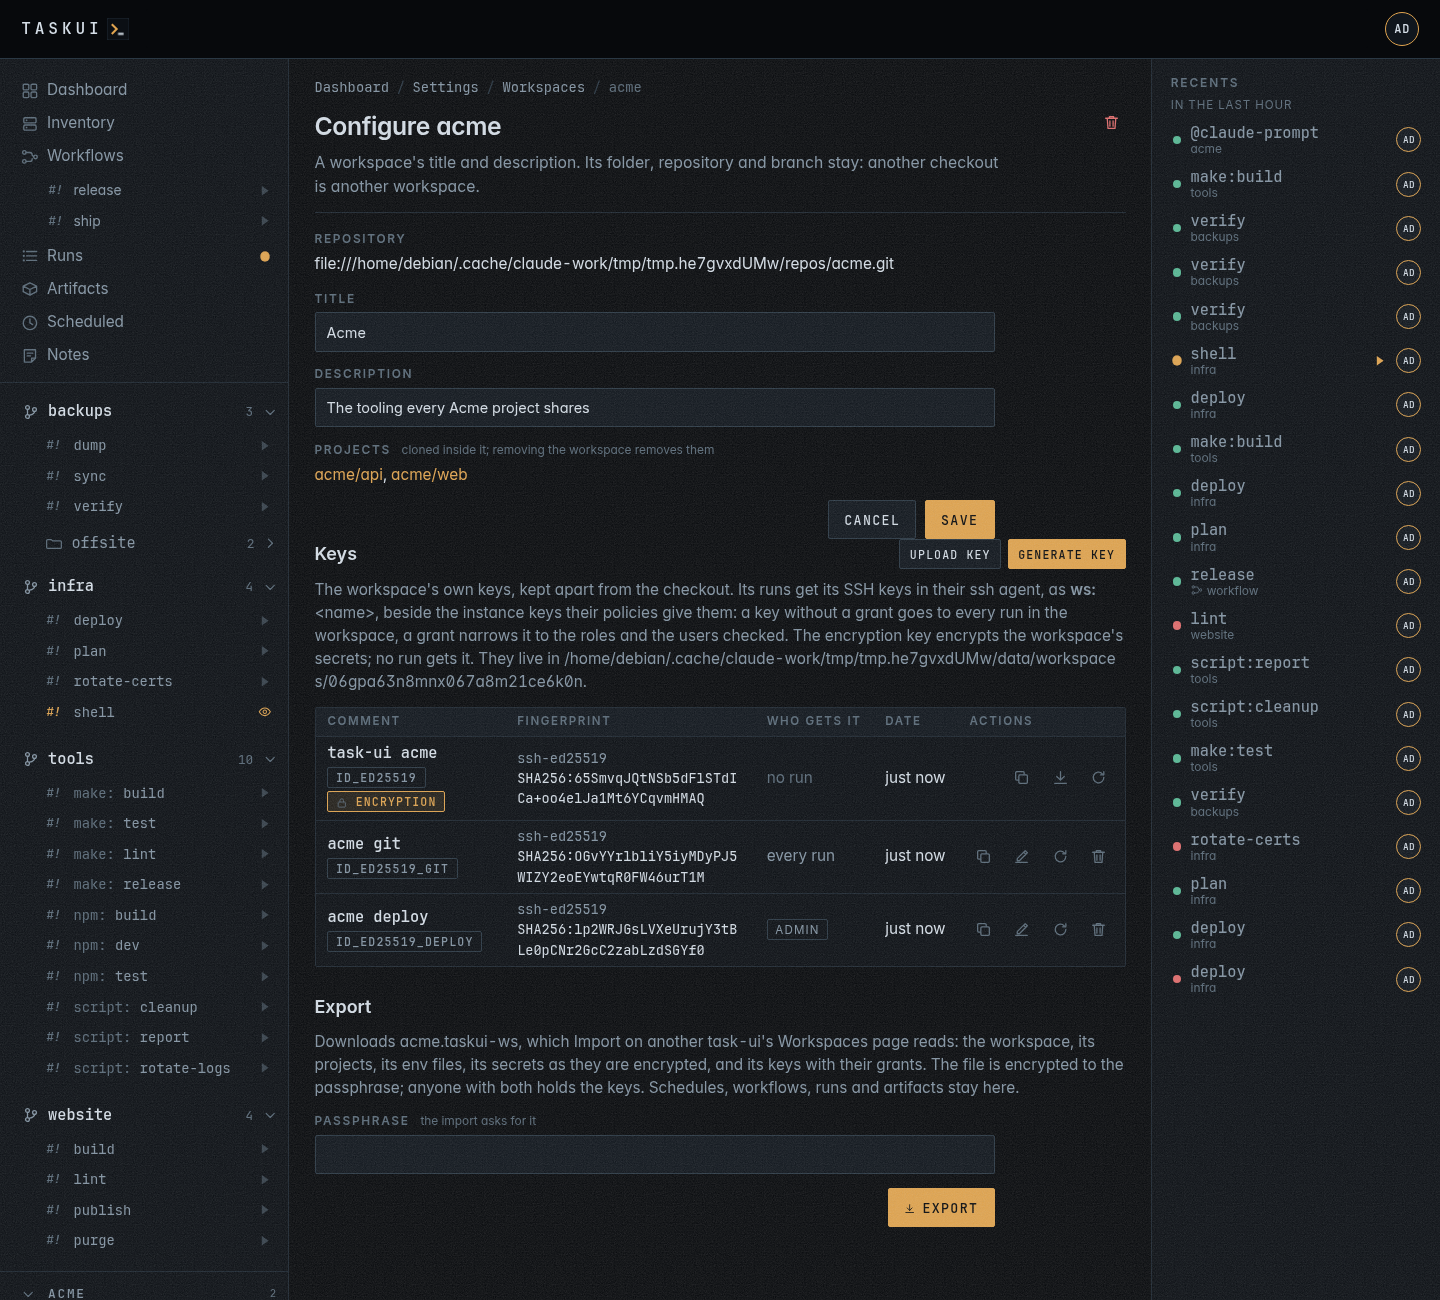
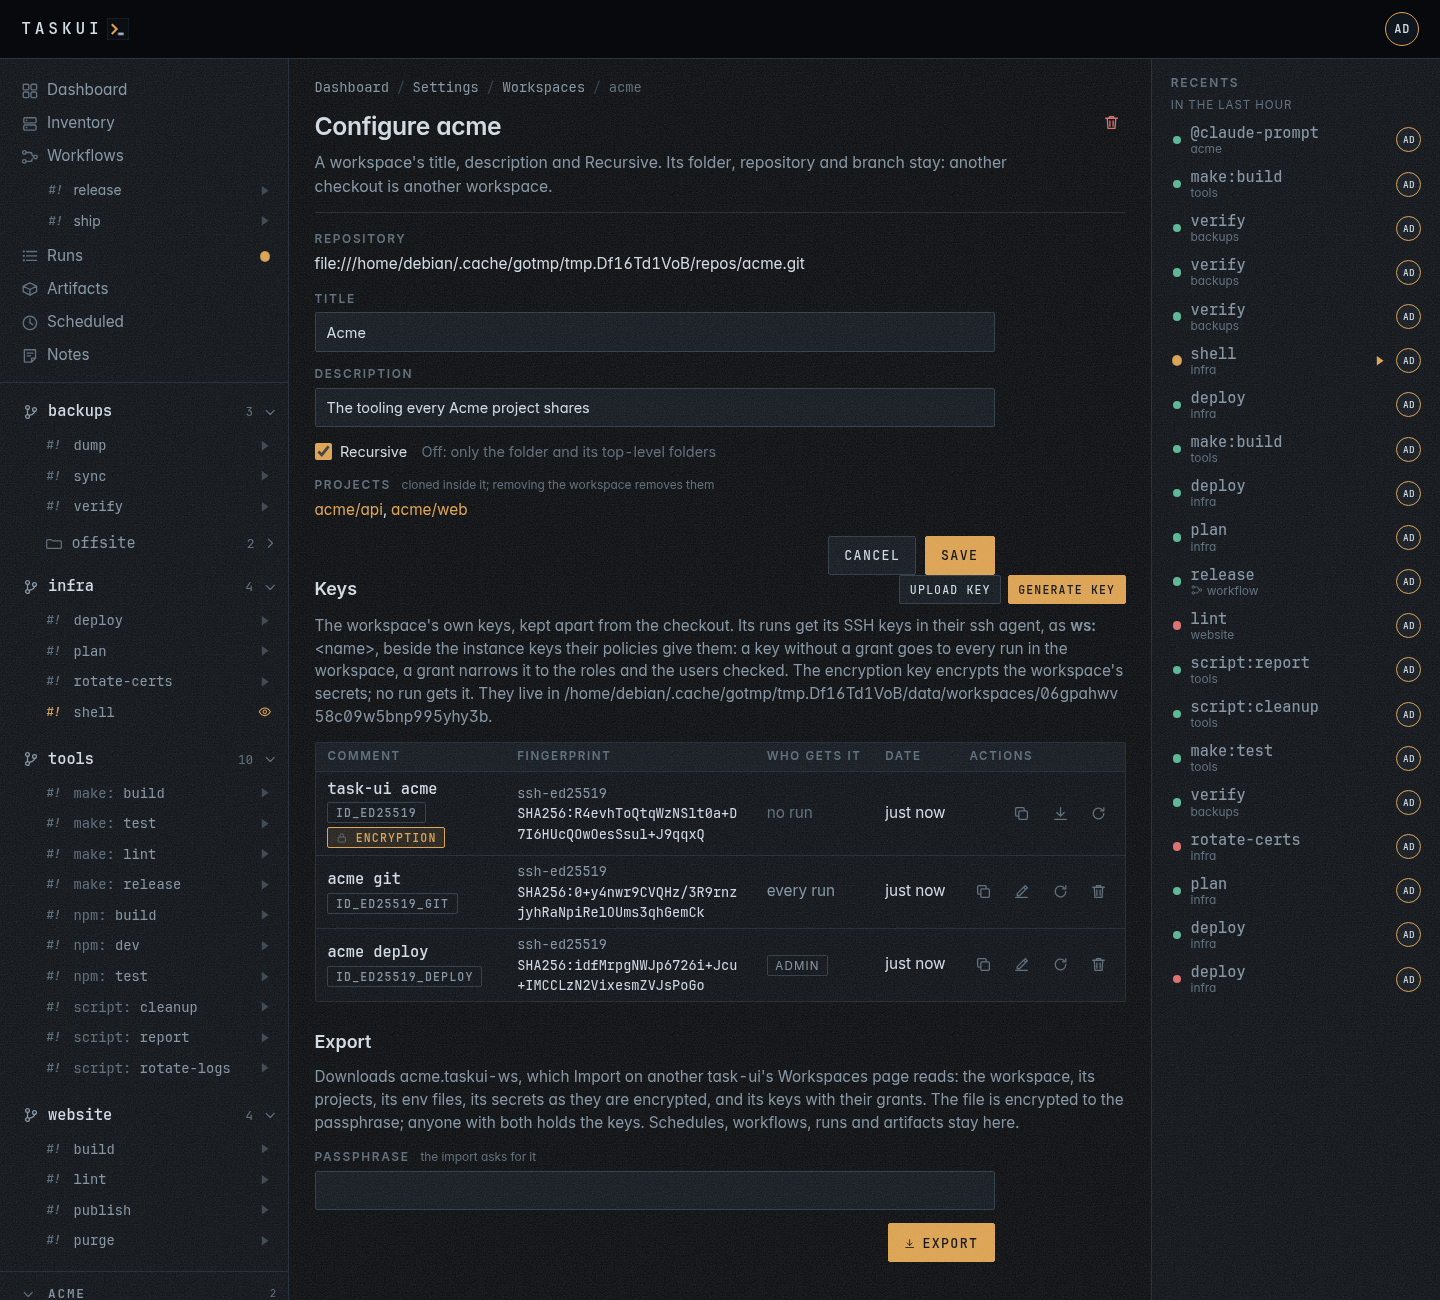
Workspaces: Recursive as projects have it; ignored checkouts with jobs list
Workspace rows gain shallow (migration workspace_shallow), so the zero
value stays recursive. The workspace add and configure forms carry the
Recursive toggle the project forms have, one partial for all four, and
POST/PUT /api/workspaces take recursive; the export bundle and the
import carry it. docs/api.md records the field.

Discovery treats the root, the workspaces and the configured folders
as roots: a directory right below one that its checkout ignores lists
when it holds a job source of its own, such as malta/deploy, and the
folders inside it follow the Recursive above it. An ignored directory
with nothing to run, or one deeper down, stays out; a project row on
the directory wins. A shallow parent still walks into the roots below
it.

TestWorkflowRunStorage gives its second run a later ID: two starts in
one millisecond sorted by the random part.

diff --git a/folder/discovery.go b/folder/discovery.go
@@ -25,10 +25,17 @@ var skipped = map[string]bool{"node_modules": true, "vendor": true, "testdata": 
 // a pipeline file of their own: a Go tree's Makefiles are the pipeline's
 // business. Configured folders override the discovered ones by ID, and
 // Discovery adds a configured folder whose path the walk did not find.
+//
+// The root, the workspaces and the configured folders are roots: a
+// directory right below one that its checkout ignores, such as another
+// checkout, lists when it holds a job source of its own.
 type Discovery struct {
 	Root     string
 	Discover bool
 	Config   []Config
+	// Workspaces are the workspaces' directories, by Path or ID under the
+	// root, and their Shallow; the root is one whether they name it or not.
+	Workspaces []Config
 	// Probe is every folder's Probe, for the skills atkins applies in it.
 	Probe *skills.Prober
 }
@@ -123,24 +130,31 @@ func isFile(path string) bool {
 }
 
 // discover adds the root when it has something to run, and walks the
-// tree below it, one level into a shallow project. A directory of the root
-// named internal or _ lists nothing: the names are task-ui's own. The walk
-// goes into every configured folder, even one a checkout ignores, such
-// as a project cloned inside a workspace.
+// tree below it, one level into a shallow project or workspace. A
+// directory of the root named internal or _ lists nothing: the names are
+// task-ui's own. The walk goes into every configured folder, even one a
+// checkout ignores, such as a project cloned inside a workspace, and into
+// an ignored directory right below a root that holds a job source.
 func (d *Discovery) discover(root string, c *catalogue) {
 	if !c.seen(root) && detector.Any(root) {
 		if f := Load(SafeID(filepath.Base(root)), root); runnable(f) {
 			c.add(f)
 		}
 	}
-	shallow, keep := map[string]bool{}, map[string]bool{}
-	for _, cfg := range d.Config {
-		keep[cfg.dir(root)] = true
+	shallow, keep, roots := map[string]bool{}, map[string]bool{}, map[string]bool{root: true}
+	for _, cfg := range d.Workspaces {
+		roots[cfg.dir(root)] = true
 		if cfg.Shallow {
 			shallow[cfg.dir(root)] = true
 		}
 	}
-	w := walker{shallow: shallow, keep: keep, found: func(id, dir string) {
+	for _, cfg := range d.Config {
+		keep[cfg.dir(root)], roots[cfg.dir(root)] = true, true
+		if cfg.Shallow {
+			shallow[cfg.dir(root)] = true
+		}
+	}
+	w := walker{shallow: shallow, keep: keep, roots: roots, found: func(id, dir string) {
 		if c.seen(dir) || model.IsReserved(id) {
 			return
 		}
@@ -148,7 +162,7 @@ func (d *Discovery) discover(root string, c *catalogue) {
 			c.add(f)
 		}
 	}}
-	w.walk(root, "", 1, detector.HasPipeline(root), gitIgnored(root, nil), false)
+	w.walk(root, "", 1, detector.HasPipeline(root), gitIgnored(root, nil), shallow[root])
 }
 
 // sections adds the top level folder of every listed folder below one
@@ -206,17 +220,19 @@ func gitIgnored(dir string, ignored map[string]bool) map[string]bool {
 
 // walker visits the directories below the root and reports the ones
 // with something to run to found. Directories a git checkout ignores are
-// not visited unless keep holds them, and the walk goes one level into
-// a directory in shallow, a shallow project, and no deeper.
+// not visited unless keep holds them or they sit right below a directory
+// of roots with a job source of their own, and the walk goes one level
+// into a directory in shallow, a shallow project or workspace, and no
+// deeper, but for the roots below it.
 type walker struct {
-	shallow, keep map[string]bool
-	found         func(id, dir string)
+	shallow, keep, roots map[string]bool
+	found                func(id, dir string)
 }
 
 // walk visits the directories below dir, in name order. Below a pipeline
 // folder walk reports only a folder with a pipeline file, but goes on
-// through the rest. last stops it under the directories of dir: dir is a
-// shallow project.
+// through the rest. last stops it under the directories of dir that are
+// not roots: dir is a shallow project or workspace.
 func (w walker) walk(dir, id string, depth int, underPipeline bool, ignored map[string]bool, last bool) {
 	if depth > maxDepth {
 		return
@@ -228,7 +244,7 @@ func (w walker) walk(dir, id string, depth int, underPipeline bool, ignored map[
 			continue
 		}
 		sub := filepath.Join(dir, name)
-		if ignored[sub] && !w.keep[sub] {
+		if ignored[sub] && !w.keep[sub] && !(w.roots[dir] && detector.Any(sub)) {
 			continue
 		}
 		ignored := gitIgnored(sub, ignored)
@@ -240,7 +256,7 @@ func (w walker) walk(dir, id string, depth int, underPipeline bool, ignored map[
 		if pipeline || (!underPipeline && detector.Any(sub)) {
 			w.found(subID, sub)
 		}
-		if last {
+		if last && !w.roots[sub] {
 			continue
 		}
 		w.walk(sub, subID, depth+1, underPipeline || pipeline, ignored, w.shallow[sub])

diff --git a/folder/discovery_test.go b/folder/discovery_test.go
@@ -6,6 +6,8 @@ import (
 	"path/filepath"
 	"slices"
 	"testing"
+
+	"github.com/titpetric/task-ui/model"
 )
 
 func TestDiscovery(t *testing.T) {
@@ -273,5 +275,60 @@ func TestDiscovery_Workspace(t *testing.T) {
 	// Unconfigured, the ignored project stays out.
 	if got, want := list(&Discovery{Root: root, Discover: true}), []string{"ws"}; !slices.Equal(got, want) {
 		t.Fatalf("folders: got %v, want %v", got, want)
+	}
+}
+
+// A directory a workspace's checkout ignores, right below it, lists
+// when it holds a job source of its own, such as another
+// checkout; the folders inside it follow the workspace's Recursive. One
+// with no job source stays out, as does an ignored directory deeper
+// down. A project row on the directory wins over the discovered one.
+func TestDiscovery_IgnoredCheckouts(t *testing.T) {
+	t.Parallel()
+	root := t.TempDir()
+	ws := filepath.Join(root, "ws")
+	gitInit(t, ws)
+	write(t, filepath.Join(ws, ".gitignore"), "/deploy\n/empty\n/lib/cache\n")
+	write(t, filepath.Join(ws, "atkins.yml"), "jobs:\n  setup: echo setup\n")
+	deploy := filepath.Join(ws, "deploy")
+	gitInit(t, deploy)
+	write(t, filepath.Join(deploy, "Taskfile.yml"), "tasks:\n  up:\n    desc: Up\n")
+	write(t, filepath.Join(deploy, "web", "atkins.yml"), "jobs:\n  ship: echo ship\n")
+	write(t, filepath.Join(ws, "empty", "inner", "atkins.yml"), "jobs:\n  x: echo x\n")
+	write(t, filepath.Join(ws, "lib", "cache", "atkins.yml"), "jobs:\n  y: echo y\n")
+
+	list := func(d *Discovery) []string {
+		ids := []string{}
+		for _, f := range d.List() {
+			ids = append(ids, f.ID)
+		}
+		return ids
+	}
+	d := &Discovery{Root: root, Discover: true, Workspaces: []Config{{ID: "ws"}}}
+	if got, want := list(d), []string{"ws", "ws/deploy", "ws/deploy/web"}; !slices.Equal(got, want) {
+		t.Fatalf("folders: got %v, want %v", got, want)
+	}
+	if f := d.Find("ws/deploy"); f == nil || f.Job("up") == nil {
+		t.Fatalf("ws/deploy: %+v", f)
+	}
+
+	shallow := &Discovery{Root: root, Discover: true, Workspaces: []Config{{ID: "ws", Shallow: true}}}
+	if got, want := list(shallow), []string{"ws", "ws/deploy"}; !slices.Equal(got, want) {
+		t.Fatalf("shallow: got %v, want %v", got, want)
+	}
+
+	configured := &Discovery{Root: root, Discover: true, Workspaces: []Config{{ID: "ws"}}, Config: []Config{{ID: "ws/deploy", Title: "Deploy"}}}
+	if f := configured.Find("ws/deploy"); f == nil || f.Title != "Deploy" {
+		t.Fatalf("project row: %+v", f)
+	}
+
+	// The default workspace is the root, by Path.
+	other := t.TempDir()
+	gitInit(t, other)
+	write(t, filepath.Join(other, ".gitignore"), "/tools\n")
+	write(t, filepath.Join(other, "tools", "Makefile"), "## Build\nbuild:\n\techo build\n")
+	top := &Discovery{Root: other, Discover: true, Workspaces: WorkspaceConfigsOf([]model.Workspace{{Folder: model.Default}})}
+	if got, want := list(top), []string{"tools"}; !slices.Equal(got, want) {
+		t.Fatalf("root: got %v, want %v", got, want)
 	}
 }

diff --git a/api/workspace_test.go b/api/workspace_test.go
@@ -45,6 +45,7 @@ func TestWorkspace_CRUD(t *testing.T) {
 	assert.Equal(t, http.StatusCreated, created.Status, string(created.Raw))
 	assert.Equal(t, "malta", created.str("workspace", "folder"))
 	assert.Equal(t, repo, created.str("workspace", "source_url"))
+	assert.Equal(t, false, created.get("workspace", "shallow"), "Recursive is the default")
 	assert.FileExists(t, filepath.Join(f.root, "malta", "Makefile"))
 
 	// A second workspace from the same repository, under its own name.
@@ -76,6 +77,14 @@ func TestWorkspace_CRUD(t *testing.T) {
 	assert.Equal(t, "gozo", list.list("workspaces")[0].(map[string]any)["folder"])
 	kept := f.call(t, asAdmin, http.MethodPut, "/workspaces/malta", api.WorkspaceRequest{Title: "The island"})
 	assert.Equal(t, float64(5), kept.get("sort"))
+
+	// Recursive off makes the workspace shallow; left out, it stays.
+	flat := f.call(t, asAdmin, http.MethodPut, "/workspaces/malta", api.WorkspaceRequest{Title: "The island", Recursive: new(false)})
+	assert.Equal(t, true, flat.get("shallow"))
+	kept = f.call(t, asAdmin, http.MethodPut, "/workspaces/malta", api.WorkspaceRequest{Title: "The island"})
+	assert.Equal(t, true, kept.get("shallow"))
+	deep := f.call(t, asAdmin, http.MethodPut, "/workspaces/malta", api.WorkspaceRequest{Title: "The island", Recursive: new(true)})
+	assert.Equal(t, false, deep.get("shallow"))
 
 	deleted := f.call(t, asAdmin, http.MethodDelete, "/workspaces/malta", nil)
 	assert.Equal(t, http.StatusNoContent, deleted.Status)

diff --git a/api/workspace.go b/api/workspace.go
@@ -61,6 +61,7 @@ func (h *Handlers) createWorkspace(w http.ResponseWriter, r *http.Request) {
 	workspace := &model.Workspace{
 		Folder: req.Folder, Title: req.Title, Description: req.Description,
 		SourceURL: req.URL, Branch: req.Branch,
+		Shallow: req.Recursive != nil && !*req.Recursive,
 	}
 	if err := h.opts.Workspaces.Create(ctx, workspace); err != nil {
 		failErr(w, err)
@@ -111,9 +112,9 @@ func (h *Handlers) getWorkspace(w http.ResponseWriter, r *http.Request) {
 	writeJSON(w, http.StatusOK, workspace)
 }
 
-// updateWorkspace writes a workspace's title and description. Its
-// folder, repository and branch stay: another checkout is another
-// workspace. The default workspace keeps its place, first.
+// updateWorkspace writes a workspace's title, description and
+// Recursive. Its folder, repository and branch stay: another checkout is
+// another workspace. The default workspace keeps its place, first.
 func (h *Handlers) updateWorkspace(w http.ResponseWriter, r *http.Request) {
 	if !h.require(w, r, "workspace/edit") {
 		return
@@ -131,6 +132,9 @@ func (h *Handlers) updateWorkspace(w http.ResponseWriter, r *http.Request) {
 	workspace.Title, workspace.Description = req.Title, req.Description
 	if req.Sort != nil && workspace.Folder != model.Default {
 		workspace.Sort = *req.Sort
+	}
+	if req.Recursive != nil {
+		workspace.Shallow = !*req.Recursive
 	}
 	if err := h.opts.Workspaces.Update(r.Context(), workspace); err != nil {
 		failErr(w, err)

diff --git a/model/types.mig.go b/model/types.mig.go
@@ -1983,6 +1983,9 @@ type Workspace struct {
 	// Updated At
 	UpdatedAt *time.Time `db:"updated_at" json:"updated_at"`
 
+	// Shallow
+	Shallow bool `db:"shallow" json:"shallow"`
+
 	// Sort
 	Sort int64 `db:"sort" json:"sort"`
 }
@@ -2035,6 +2038,12 @@ func (w *Workspace) GetUpdatedAt() *time.Time { return w.UpdatedAt }
 // SetUpdatedAt sets UpdatedAt to the provided value.
 func (w *Workspace) SetUpdatedAt(stamp time.Time) { w.UpdatedAt = &stamp }
 
+// GetShallow will return the value of Shallow.
+func (w *Workspace) GetShallow() bool { return w.Shallow }
+
+// SetShallow sets Shallow to the provided value.
+func (w *Workspace) SetShallow(val bool) { w.Shallow = val }
+
 // GetSort will return the value of Sort.
 func (w *Workspace) GetSort() int64 { return w.Sort }
 
@@ -2045,7 +2054,7 @@ func (w *Workspace) SetSort(val int64) { w.Sort = val }
 const WorkspaceTable = "`workspace`"
 
 // WorkspaceFields is a list of all columns in the DB table.
-var WorkspaceFields = []string{"id", "folder", "title", "description", "source_url", "branch", "created_at", "updated_at", "sort"}
+var WorkspaceFields = []string{"id", "folder", "title", "description", "source_url", "branch", "created_at", "updated_at", "shallow", "sort"}
 
 // WorkspacePrimaryFields are the primary key fields in the DB table.
 var WorkspacePrimaryFields = []string{"id"}

diff --git a/api/workspace_import_test.go b/api/workspace_import_test.go
@@ -29,7 +29,7 @@ func (f *fixture) acme(t *testing.T) string {
 	t.Helper()
 	ctx := context.Background()
 	repo := "file://" + localRepo(t)
-	res := f.call(t, asAdmin, http.MethodPost, "/workspaces", api.WorkspaceRequest{URL: repo, Folder: "acme", Title: "Acme"})
+	res := f.call(t, asAdmin, http.MethodPost, "/workspaces", api.WorkspaceRequest{URL: repo, Folder: "acme", Title: "Acme", Recursive: new(false)})
 	assert.Equal(t, http.StatusCreated, res.Status, string(res.Raw))
 	id := res.str("workspace", "id")
 	res = f.call(t, asAdmin, http.MethodPost, "/projects", api.ProjectCloneRequest{URL: repo, ID: "api", Workspace: "acme"})
@@ -60,6 +60,7 @@ func TestWorkspaceImport(t *testing.T) {
 	assert.Equal(t, http.StatusCreated, res.Status, string(res.Raw))
 	assert.Equal(t, "acme2", res.str("workspace", "folder"))
 	assert.Equal(t, "Acme", res.str("workspace", "title"))
+	assert.Equal(t, true, res.get("workspace", "shallow"), "Recursive off comes along")
 	toID := res.str("workspace", "id")
 	projects := res.list("projects")
 	assert.Len(t, projects, 1)

diff --git a/api/workspace_request.go b/api/workspace_request.go
@@ -3,7 +3,8 @@ package api
 // WorkspaceRequest adds a workspace from a git repository, or changes
 // one. A workspace's folder is the name its projects clone under; the
 // URL, the folder and the branch hold on create only, an update writes
-// the title and the description, and the sort when the request has one.
+// the title and the description, and the sort and Recursive when the
+// request has them.
 type WorkspaceRequest struct {
 	URL         string `json:"url"`
 	Folder      string `json:"folder"`
@@ -13,4 +14,8 @@ type WorkspaceRequest struct {
 	// Sort orders the workspaces, lowest first; on an update, left out
 	// keeps it.
 	Sort *int64 `json:"sort,omitempty"`
+	// Recursive lists the folders inside the workspace as deep as they
+	// go, the default; false lists the workspace and its top-level
+	// folders alone. On an update, left out keeps it.
+	Recursive *bool `json:"recursive,omitempty"`
 }

diff --git a/frontend/workspace_test.go b/frontend/workspace_test.go
@@ -64,6 +64,13 @@ func TestWorkspaceEdit(t *testing.T) {
 	assert.Contains(t, body, `value="Malta"`)
 	assert.Contains(t, body, `value="The org"`)
 	assert.Contains(t, body, "none yet")
+	assert.Contains(t, body, `type="checkbox" id="we-recursive" name="recursive" checked`)
+	assert.Contains(t, f.page(t, asAdmin, "/settings/workspaces/new"), `type="checkbox" id="w-recursive" name="recursive" checked`)
+
+	assert.NoError(t, f.opts.Workspaces.Create(ctx, &model.Workspace{Folder: "gozo", Shallow: true}))
+	shallow := f.page(t, asAdmin, "/settings/workspaces/gozo")
+	assert.Contains(t, shallow, `type="checkbox" id="we-recursive" name="recursive">`)
+	assert.Contains(t, shallow, "Off: only the folder and its top-level folders")
 
 	assert.Equal(t, http.StatusNotFound, f.get(t, asAdmin, "/settings/workspaces/nope").Status)
 }

diff --git a/app/catalogue.go b/app/catalogue.go
@@ -16,6 +16,9 @@ type Catalogue struct {
 	Root     string
 	Discover bool
 	Projects *storage.ProjectStorage
+	// Workspaces are the workspace rows, whose directories discovery
+	// treats as roots.
+	Workspaces *storage.WorkspaceStorage
 	// Skills asks atkins for the skills of a folder's directory, for
 	// every folder the catalogue lists.
 	Skills *skills.Prober
@@ -35,6 +38,13 @@ func (c *Catalogue) discovery() *folder.Discovery {
 			slog.Error("listing projects", "err", err)
 		}
 		d.Config = folder.ConfigsOf(projects)
+	}
+	if c.Workspaces != nil {
+		workspaces, err := c.Workspaces.List(context.Background())
+		if err != nil {
+			slog.Error("listing workspaces", "err", err)
+		}
+		d.Workspaces = folder.WorkspaceConfigsOf(workspaces)
 	}
 	return d
 }

diff --git a/folder/config.go b/folder/config.go
@@ -105,6 +105,20 @@ func ConfigOf(p *model.Project) Config {
 	}
 }
 
+// WorkspaceConfigsOf reads workspace rows as the configurations of their
+// directories, the default one the root's.
+func WorkspaceConfigsOf(workspaces []model.Workspace) []Config {
+	configs := make([]Config, 0, len(workspaces))
+	for _, w := range workspaces {
+		cfg := Config{ID: w.Folder, Shallow: w.Shallow}
+		if w.Folder == model.Default {
+			cfg.Path = "."
+		}
+		configs = append(configs, cfg)
+	}
+	return configs
+}
+
 // ConfigsOf reads project rows as folder configurations.
 func ConfigsOf(projects []model.Project) []Config {
 	configs := make([]Config, 0, len(projects))

diff --git a/storage/workflow_storage_test.go b/storage/workflow_storage_test.go
@@ -107,8 +107,9 @@ func TestWorkflowRunStorage(t *testing.T) {
 	assert.NoError(t, err)
 	assert.Len(t, list, 1)
 
-	// The runs of every workflow, newest first, for the sidebar.
-	other := &model.WorkflowRun{WorkflowID: "wf2", Name: "release", UserName: "ops"}
+	// The runs of every workflow, newest first, for the sidebar. Its ID
+	// sorts later, for a start in the same millisecond.
+	other := &model.WorkflowRun{ID: model.NewIDAt(time.Now().Add(time.Second)), WorkflowID: "wf2", Name: "release", UserName: "ops"}
 	assert.NoError(t, runs.Create(ctx, other, steps("a", "build")))
 	all, err := runs.List(ctx, 10)
 	assert.NoError(t, err)

diff --git a/schema/schema_test.go b/schema/schema_test.go
@@ -12,7 +12,7 @@ func TestMigrations(t *testing.T) {
 	t.Parallel()
 	files, err := fs.Glob(schema.Migrations(), "*.up.sql")
 	assert.NoError(t, err)
-	assert.Len(t, files, 34)
+	assert.Len(t, files, 35)
 	assert.Contains(t, files, "run.up.sql")
 	assert.Contains(t, files, "workspace.up.sql")
 	for _, name := range []string{"workflow.up.sql", "workflow_step.up.sql", "workflow_run.up.sql", "workflow_run_step.up.sql"} {
